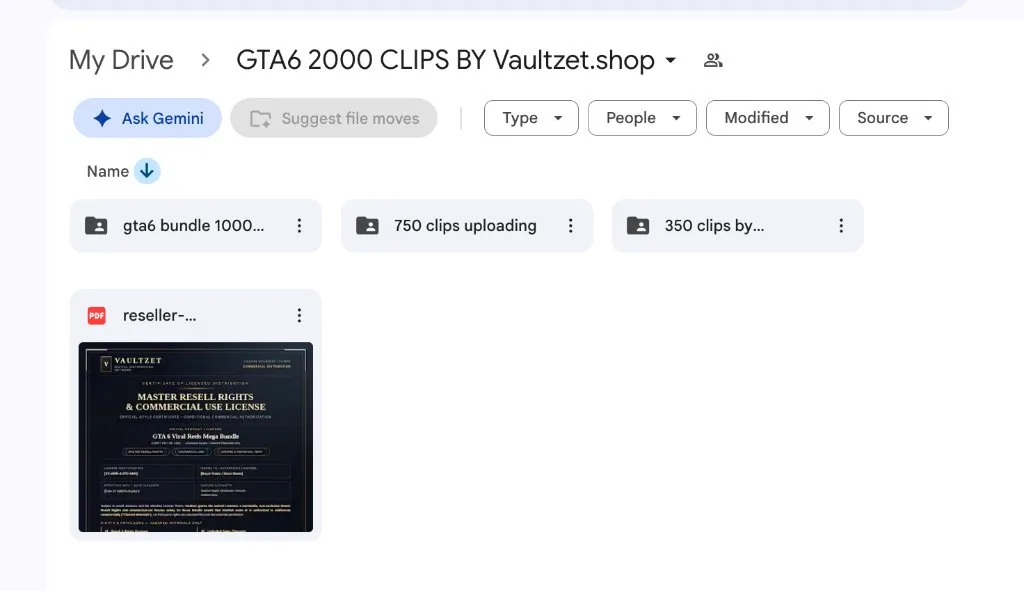
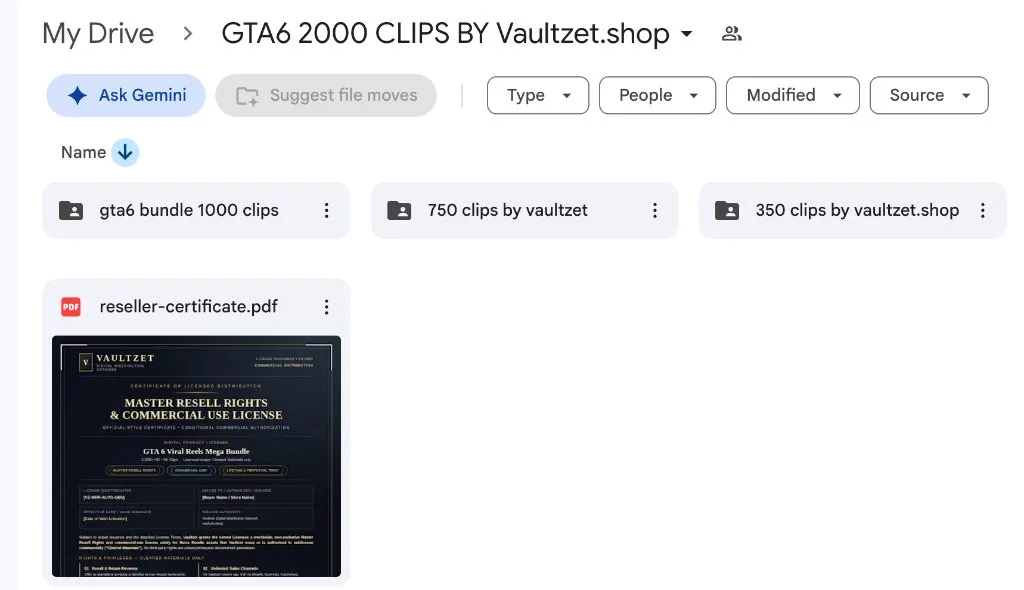
feat(gta6): replace first drive screenshot with finalized folders and certificate preview

diff --git a/src/components/gta6/Gta6DriveProofCarousel.tsx b/src/components/gta6/Gta6DriveProofCarousel.tsx
@@ -37,7 +37,7 @@ const DRIVE_SAMPLES: DriveSampleItem[] = [
     tag: '👑 Master Folder & License',
     title: 'Google Drive Delivery Structure + MRR License',
     folderPath: 'My Drive > GTA6 2000 CLIPS BY Vaultzet.shop',
-    description: '3 Master categories (1000 Clips, 750 Clips, 350 Clips) + Official Master Resell Rights & Commercial License PDF.',
+    description: '3 Master folders (1000 Clips, 750 Clips by Vaultzet, 350 Clips by Vaultzet) + Official Master Resell Rights (MRR) License PDF.',
     fileCount: '2,000+ Total Files',
   },
   {
